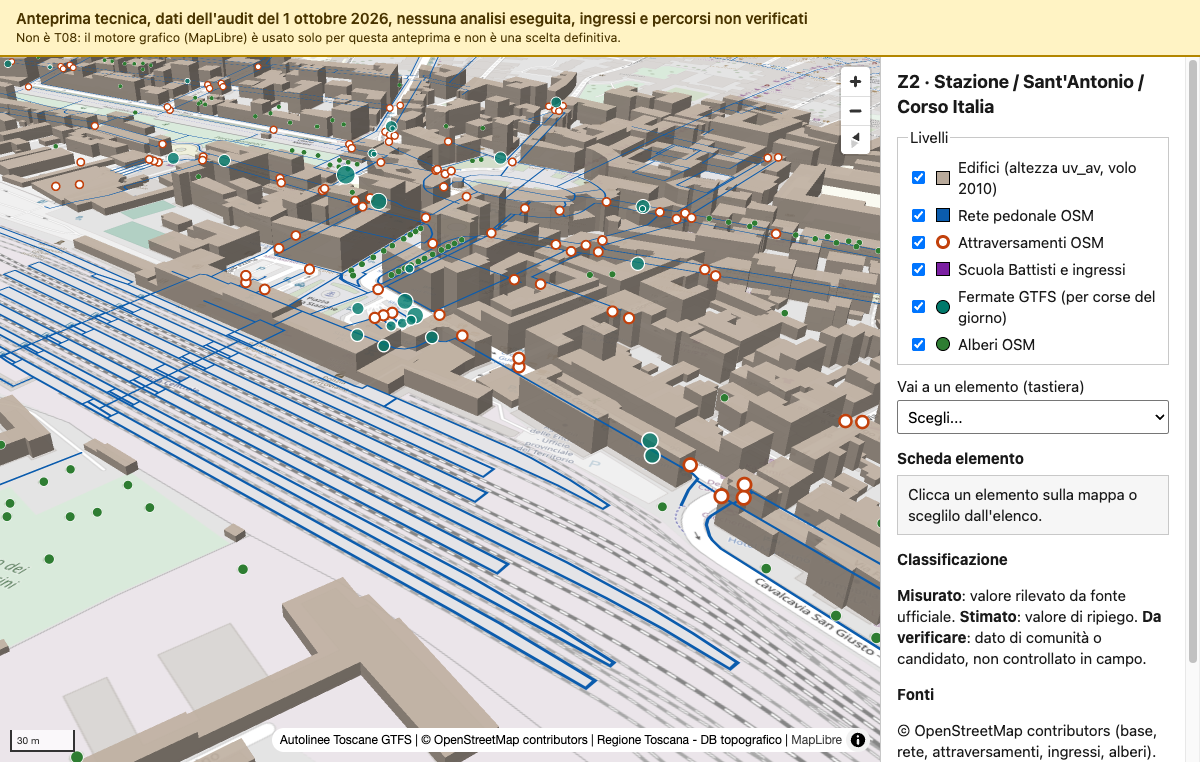
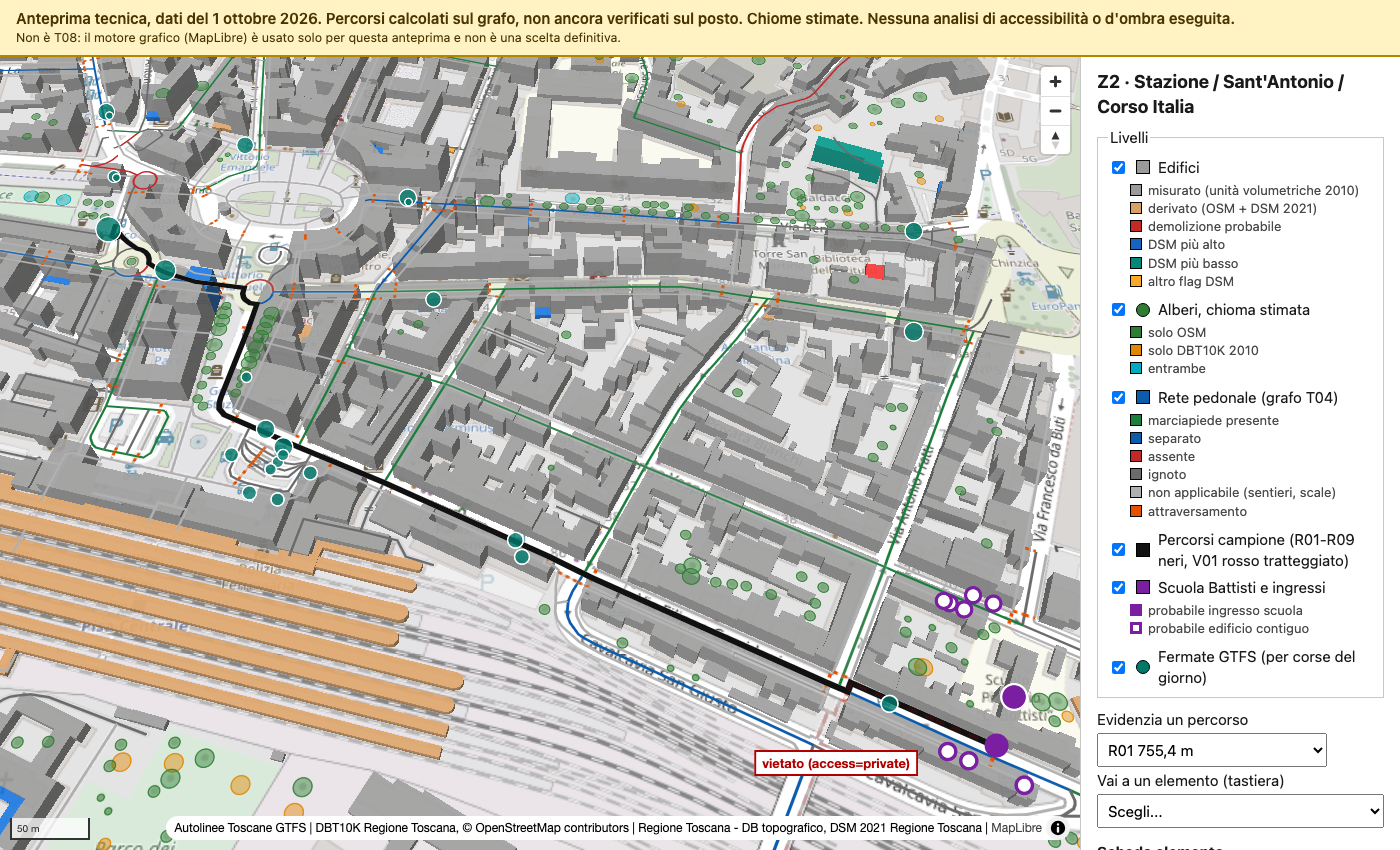
Anteprima Z2 con grafo, percorsi, ingressi, edifici classificati e chiome stimate
Claude-Session: https://claude.ai/code/session_01H4gk6jQonjb7LHRiUng3er

diff --git a/preview/index.html b/preview/index.html
@@ -24,12 +24,13 @@ select,button{font:inherit;padding:6px;max-width:100%}
 #scheda{border:1px solid var(--line);padding:8px 10px;background:#f6f6f6}
 #scheda dl{margin:6px 0 0;display:grid;grid-template-columns:auto 1fr;gap:2px 10px}
 #scheda dt{color:var(--mut)}#scheda dd{margin:0;overflow-wrap:anywhere}
+.lg{list-style:none;margin:0 0 6px 22px;padding:0;font-size:13px;color:var(--mut)}.lg i{display:inline-block;width:12px;height:12px;border:1px solid #000;margin-right:6px;vertical-align:-1px}.etic{background:#fff;color:#b00000;border:2px solid #b00000;padding:1px 6px;font-weight:700;font-size:13px}
 .cls{font-weight:700}
 @media(max-width:760px){main{flex-direction:column}aside{width:auto;max-height:45vh;border-left:0;border-top:1px solid var(--line)}}
 </style>
 </head>
 <body>
-<div id="banner" role="alert">Anteprima tecnica, dati dell'audit del 1 ottobre 2026, nessuna analisi eseguita, ingressi e percorsi non verificati
+<div id="banner" role="alert">Anteprima tecnica, dati del 1 ottobre 2026. Percorsi calcolati sul grafo, non ancora verificati sul posto. Chiome stimate. Nessuna analisi di accessibilità o d'ombra eseguita.
 <small>Non è T08: il motore grafico (MapLibre) è usato solo per questa anteprima e non è una scelta definitiva.</small></div>
 <main>
 <div id="map" aria-label="Mappa 3D della zona Z2, Stazione, Sant'Antonio, Corso Italia"></div>
@@ -37,13 +38,19 @@ select,button{font:inherit;padding:6px;max-width:100%}
 <h1>Z2 · Stazione / Sant'Antonio / Corso Italia</h1>
 <p id="errore" hidden></p>
 <fieldset><legend>Livelli</legend>
-<label><input type="checkbox" data-l="edifici" checked><span class="sw" style="background:#b8a99a"></span>Edifici (altezza uv_av, volo 2010)</label>
-<label><input type="checkbox" data-l="rete" checked><span class="sw" style="background:#0b5cad"></span>Rete pedonale OSM</label>
-<label><input type="checkbox" data-l="attr" checked><span class="sw" style="background:#fff;border-radius:50%;border:3px solid #c2410c"></span>Attraversamenti OSM</label>
+<label><input type="checkbox" data-l="edifici" checked><span class="sw" style="background:#9a9a9a"></span>Edifici</label>
+<ul class="lg"><li><i style="background:#9a9a9a"></i>misurato (unità volumetriche 2010)</li><li><i style="background:#d9a066"></i>derivato (OSM + DSM 2021)</li><li><i style="background:#c62828"></i>demolizione probabile</li><li><i style="background:#1565c0"></i>DSM più alto</li><li><i style="background:#00897b"></i>DSM più basso</li><li><i style="background:#f9a825"></i>altro flag DSM</li></ul>
+<label><input type="checkbox" data-l="alberi" checked><span class="sw" style="background:#2e7d32;border-radius:50%"></span>Alberi, chioma stimata</label>
+<ul class="lg"><li><i style="background:#2e7d32"></i>solo OSM</li><li><i style="background:#e08600"></i>solo DBT10K 2010</li><li><i style="background:#00acc1"></i>entrambe</li></ul>
+<label><input type="checkbox" data-l="rete" checked><span class="sw" style="background:#0b5cad"></span>Rete pedonale (grafo T04)</label>
+<ul class="lg"><li><i style="background:#1b7f3b"></i>marciapiede presente</li><li><i style="background:#0b5cad"></i>separato</li><li><i style="background:#c62828"></i>assente</li><li><i style="background:#6b6b6b"></i>ignoto</li><li><i style="background:#b0b0b0"></i>non applicabile (sentieri, scale)</li><li><i style="background:#e65100"></i>attraversamento</li></ul>
+<label><input type="checkbox" data-l="percorsi" checked><span class="sw" style="background:#111"></span>Percorsi campione (R01-R09 neri, V01 rosso tratteggiato)</label>
 <label><input type="checkbox" data-l="scuola" checked><span class="sw" style="background:#7b1fa2"></span>Scuola Battisti e ingressi</label>
+<ul class="lg"><li><i style="background:#7b1fa2;border:3px solid #7b1fa2"></i>probabile ingresso scuola</li><li><i style="background:#fff;border:3px solid #7b1fa2"></i>probabile edificio contiguo</li></ul>
 <label><input type="checkbox" data-l="fermate" checked><span class="sw" style="background:#00796b;border-radius:50%"></span>Fermate GTFS (per corse del giorno)</label>
-<label><input type="checkbox" data-l="alberi" checked><span class="sw" style="background:#2e7d32;border-radius:50%"></span>Alberi OSM</label>
 </fieldset>
+<label for="perc">Evidenzia un percorso</label>
+<select id="perc"><option value="">Tutti</option></select>
 <label for="vai">Vai a un elemento (tastiera)</label>
 <select id="vai"><option value="">Scegli...</option></select>
 <h2>Scheda elemento</h2>
@@ -51,7 +58,7 @@ select,button{font:inherit;padding:6px;max-width:100%}
 <h2>Classificazione</h2>
 <p><b>Misurato</b>: valore rilevato da fonte ufficiale. <b>Stimato</b>: valore di ripiego. <b>Da verificare</b>: dato di comunità o candidato, non controllato in campo.</p>
 <h2>Fonti</h2>
-<p>© OpenStreetMap contributors (base, rete, attraversamenti, ingressi, alberi). Regione Toscana - DB topografico (edifici, unità volumetriche, volo 2010). Autolinee Toscane GTFS (fermate, corse del 1 ottobre 2026).</p>
+<p>© OpenStreetMap contributors (base, rete, ingressi, alberi). Regione Toscana - DB topografico (edifici, unità volumetriche, volo 2010), DBT10K Regione Toscana (alberi), DSM 2021 Regione Toscana (altezze derivate e confronto). Quota base: dal dato (z_base) quando presente, altrimenti 0; la base cartografica è piatta, quindi gli edifici possono apparire sollevati di alcuni metri. Autolinee Toscane GTFS (fermate, corse del 1 ottobre 2026).</p>
 </aside>
 </main>
 <script src="https://cdn.jsdelivr.net/npm/maplibre-gl@4.7.1/dist/maplibre-gl.js"></script>
@@ -59,46 +66,69 @@ select,button{font:inherit;padding:6px;max-width:100%}
 const OSM='© OpenStreetMap contributors', RT='Regione Toscana - DB topografico', AT='Autolinee Toscane GTFS';
 const D=n=>'data/'+n+'.geojson';
 const src=(n,a)=>({type:'geojson',data:D(n),attribution:a});
-const map=new maplibregl.Map({container:'map',center:[10.4035,43.7082],zoom:17,pitch:58,pitch:58,bearing:-25,maxPitch:75,
+const mpp10=78271.517*Math.cos(43.708*Math.PI/180)/1024; // m/pixel a zoom 10
+const chioma=['interpolate',['exponential',2],['zoom'],10,['/',['get','chioma_d'],2*mpp10],22,['*',4096,['/',['get','chioma_d'],2*mpp10]]];
+const FL=['get','flag'];
+const colEdif=['case',['==',FL,'demolizione_probabile'],'#c62828',['==',FL,'dsm_piu_alto'],'#1565c0',['==',FL,'dsm_piu_basso'],'#00897b',
+ ['all',['!=',FL,''],['!=',FL,'non_confrontato']],'#f9a825',['==',['get','classe_h'],'derived'],'#d9a066','#9a9a9a'];
+const colAlb=['match',['get','fonti'],'osm','#2e7d32','dbt10k_2010','#e08600','#00acc1'];
+const map=new maplibregl.Map({container:'map',center:[10.3985,43.7085],zoom:17,pitch:58,bearing:-25,maxPitch:75,
  style:{version:8,sources:{osm:{type:'raster',tiles:['https://tile.openstreetmap.org/{z}/{x}/{y}.png'],tileSize:256,maxzoom:19,attribution:OSM},
-  edifici:src('edifici',RT),rete:src('rete_pedonale',OSM),attr:src('attraversamenti',OSM),scuola:src('scuola',OSM),ingressi:src('ingressi',OSM),
-  fermate:src('fermate',AT),alberi:src('alberi',OSM)},
+  edifici:src('edifici',RT+', DSM 2021 Regione Toscana'),rete:src('rete',OSM),percorsi:src('percorsi',OSM),scuola:src('scuola',OSM),ingressi:src('ingressi',OSM),
+  fermate:src('fermate',AT),alberi:src('alberi','DBT10K Regione Toscana, '+OSM)},
  layers:[{id:'osm',type:'raster',source:'osm',paint:{'raster-saturation':-0.6,'raster-opacity':0.85}},
-  {id:'edifici',type:'fill-extrusion',source:'edifici',paint:{'fill-extrusion-height':['get','h'],'fill-extrusion-base':0,'fill-extrusion-color':'#b8a99a','fill-extrusion-opacity':0.92}},
-  {id:'rete',type:'line',source:'rete',paint:{'line-color':'#0b5cad','line-width':['interpolate',['linear'],['zoom'],14,1,19,4]}},
-  {id:'alberi',type:'circle',source:'alberi',paint:{'circle-color':'#2e7d32','circle-radius':['interpolate',['linear'],['zoom'],14,1.5,19,6],'circle-stroke-color':'#fff','circle-stroke-width':0.5}},
-  {id:'attr',type:'circle',source:'attr',paint:{'circle-color':'#fff','circle-stroke-color':'#c2410c','circle-stroke-width':2.5,'circle-radius':['interpolate',['linear'],['zoom'],14,2,19,7]}},
+  {id:'edifici',type:'fill-extrusion',source:'edifici',paint:{'fill-extrusion-height':['+',['get','z_base'],['get','h']],'fill-extrusion-base':['coalesce',['get','z_base'],0],'fill-extrusion-color':colEdif,'fill-extrusion-opacity':0.92}},
+  {id:'rete',type:'line',source:'rete',filter:['!=',['get','tipo'],'attraversamento'],paint:{'line-color':['match',['get','marciapiede'],'presente','#1b7f3b','separato','#0b5cad','assente','#c62828','ignoto','#6b6b6b','#b0b0b0'],'line-width':['interpolate',['linear'],['zoom'],14,1,19,4]}},
+  {id:'attr',type:'line',source:'rete',filter:['==',['get','tipo'],'attraversamento'],paint:{'line-color':'#e65100','line-dasharray':[1,1],'line-width':['interpolate',['linear'],['zoom'],14,1.5,19,5]}},
+  {id:'alberi',type:'circle',source:'alberi',paint:{'circle-color':colAlb,'circle-opacity':0.45,'circle-radius':chioma,'circle-pitch-alignment':'map','circle-pitch-scale':'map','circle-stroke-color':colAlb,'circle-stroke-width':1.2,'circle-stroke-opacity':0.9}},
+  {id:'perc_ombra',type:'line',source:'percorsi',paint:{'line-color':'#fff','line-width':['interpolate',['linear'],['zoom'],14,3,19,9],'line-opacity':0.9}},
+  {id:'perc_ok',type:'line',source:'percorsi',filter:['!=',['get','stato'],'forbidden'],paint:{'line-color':'#111','line-width':['interpolate',['linear'],['zoom'],14,1.5,19,5]}},
+  {id:'perc_v',type:'line',source:'percorsi',filter:['==',['get','stato'],'forbidden'],paint:{'line-color':'#d50000','line-dasharray':[2,1.5],'line-width':['interpolate',['linear'],['zoom'],14,2,19,5]}},
   {id:'fermate',type:'circle',source:'fermate',paint:{'circle-color':'#00796b','circle-opacity':0.8,'circle-stroke-color':'#fff','circle-stroke-width':1.5,
     'circle-radius':['interpolate',['linear'],['get','corse'],0,4,250,8,500,13,1000,18]}},
   {id:'scuola',type:'circle',source:'scuola',paint:{'circle-color':'#7b1fa2','circle-radius':11,'circle-stroke-color':'#fff','circle-stroke-width':2}},
-  {id:'ingressi',type:'circle',source:'ingressi',paint:{'circle-color':'#fff','circle-stroke-color':'#7b1fa2','circle-stroke-width':3,'circle-radius':6}}]}});
+  {id:'ingressi',type:'circle',source:'ingressi',paint:{'circle-color':['match',['get','classe'],'probabile_ingresso_scuola','#7b1fa2','#fff'],'circle-stroke-color':'#7b1fa2','circle-stroke-width':3,'circle-radius':['match',['get','classe'],'probabile_ingresso_scuola',8,6]}}]}});
 map.addControl(new maplibregl.NavigationControl());
 map.addControl(new maplibregl.ScaleControl());
 map.on('error',e=>{const p=document.getElementById('errore');p.hidden=false;p.textContent='Errore di caricamento: '+(e.error&&e.error.message||e)});
-const GR={edifici:['edifici'],rete:['rete'],attr:['attr'],scuola:['scuola','ingressi'],fermate:['fermate'],alberi:['alberi']};
+const GR={edifici:['edifici'],rete:['rete','attr'],percorsi:['perc_ombra','perc_ok','perc_v'],scuola:['scuola','ingressi'],fermate:['fermate'],alberi:['alberi']};
+const PL=['perc_ombra','perc_ok','perc_v'];
 document.querySelectorAll('[data-l]').forEach(c=>c.addEventListener('change',()=>GR[c.dataset.l].forEach(l=>map.setLayoutProperty(l,'visibility',c.checked?'visible':'none'))));
 // scheda
-const T={edifici:p=>({titolo:'Unità volumetrica',cls:p.h_nota==='misurato'?'misurato':'stimato',fonte:RT+', unità volumetriche',data:'volo '+p.volo.replace(/(\d{4})(\d\d)(\d\d)/,'$3/$2/$1'),r:[['Identificativo',p.id],['Altezza',p.h+' m (uv_av)'],['Uso',p.uso]]}),
- rete:p=>({titolo:'Percorso pedonale',cls:'da verificare',fonte:OSM,data:'1 ottobre 2026 (estrazione)',r:[['Tipo',p.tipo],['Nome',p.nome||'-'],['Superficie',p.superficie||'-'],['Identificativo',p.id]]}),
- attr:p=>({titolo:'Attraversamento pedonale',cls:'da verificare',fonte:OSM,data:'1 ottobre 2026 (estrazione)',r:[['Tipo',p.tipo||'-'],['Segnaletica',p.segnaletica||'-'],['Identificativo',p.id]]}),
+const FLAG={demolizione_probabile:'demolizione probabile (DSM molto più basso delle unità volumetriche)',dsm_piu_alto:'DSM più alto (possibile sopraelevazione)',dsm_piu_basso:'DSM più basso',non_confrontato:'non confrontato (sotto 40 m²)',scarto_con_vegetazione:'scarto con vegetazione',sotto_2_5m:'altezza sotto 2,5 m',dsm_non_attendibile:'DSM non attendibile',vegetazione_possibile:'vegetazione possibile'};
+const m1=v=>(+v).toFixed(1).replace('.',',')+' m';
+const T={edifici:p=>({titolo:{volume_uv:'Unità volumetrica',volume_derivato:'Volume derivato',copertura_osm:'Copertura OSM'}[p.tipo]||'Edificio',cls:p.classe_h==='measured'?'misurato':'derivato',fonte:p.fonte==='uv_rt_2010'?RT+', unità volumetriche 2010':'OSM + DSM 2021 Regione Toscana, meno DTM',data:String(p.anno),r:[['Identificativo',p.id],['Altezza',m1(p.h)],['Intervallo',m1(p.h_min)+' - '+m1(p.h_max)],['Quota base',m1(p.z_base)+' (dal dato)'],['Classe',p.classe_h],['Flag DSM',FLAG[p.flag]||'nessuno'],['Portico / volume sospeso','ignoto']]}),
+ rete:p=>({titolo:'Tratto del grafo T04',cls:'da verificare',fonte:OSM+', grafo T04',data:'1 ottobre 2026',r:[['Tipo',p.tipo],['Classe OSM',p.highway],['Nome',p.nome||'-'],['Marciapiede',p.marciapiede.replace('_',' ')],['Lunghezza',m1(p.m)],['Identificativo',p.id]]}),
+ percorsi:p=>p.stato==='forbidden'?{titolo:'V01 vietato (access=private)',cls:'da verificare',fonte:'Grafo T04',data:'1 ottobre 2026',r:[['Percorso',p.descrizione],['Esito','nessun percorso sul grafo verificato'],['Lunghezza sul grafo di controllo',m1(p.permissivo_lunghezza_m)+' (tratteggio rosso, non percorribile)'],['Restrizioni',(p.restrizioni||[]).join(', ')]]}:{titolo:p.id+' percorso campione',cls:'da verificare',fonte:'Grafo T04 (calcolato, non verificato sul posto)',data:'1 ottobre 2026',r:[['Percorso',p.descrizione],['Lunghezza',m1(p.lunghezza_totale_m)],['Attraversamenti',p.attraversamenti],['Marciapiede ignoto',m1(p.m_marciapiede_ignoto)],['Scale / sottopassi',p.scale+' / '+p.sottopassi]]},
  scuola:p=>({titolo:'Scuola primaria C. Battisti',cls:'da verificare',fonte:OSM+' (candidato)',data:'1 ottobre 2026 (estrazione)',r:[['Indirizzo',p.indirizzo],['Identificativo',p.id]]}),
- ingressi:p=>({titolo:'Ingresso della scuola',cls:'da verificare',fonte:OSM,data:'1 ottobre 2026 (estrazione)',r:[['Tipo',p.tipo],['Indirizzo',p.indirizzo||'-'],['Identificativo',p.id]]}),
+ ingressi:p=>({titolo:p.classe==='probabile_ingresso_scuola'?'Probabile ingresso scuola':'Probabile edificio contiguo',cls:'da verificare',fonte:OSM+', classificazione T04 dalla geometria',data:'1 ottobre 2026',r:[['Distanza di raccordo',m1(p.raccordo_m)],['Identificativo',p.id]]}),
  fermate:p=>({titolo:'Fermata '+p.nome,cls:'misurato',fonte:AT,data:'corse del 1 ottobre 2026',r:[['Codice',p.id],['Corse del giorno',p.corse],['Linee',p.linee]]}),
- alberi:p=>({titolo:'Albero',cls:'da verificare',fonte:OSM,data:p.data?'ultima modifica '+p.data:'1 ottobre 2026',r:[['Identificativo',p.id],['Specie e altezza','non disponibili']]})};
+ alberi:p=>({titolo:'Albero (chioma stimata)',cls:'stimato',fonte:{osm:'OSM','dbt10k_2010':'DBT10K Regione Toscana 2010','dbt10k_2010,osm':'DBT10K 2010 + OSM'}[p.fonti],data:'posizione: misurata; dimensioni: stimate',r:[['Diametro chioma stimato',m1(p.chioma_d_min)+' / '+m1(p.chioma_d)+' / '+m1(p.chioma_d_max)+' (min / tipico / max)'],['Altezza stimata',m1(p.h_min)+' / '+m1(p.h)+' / '+m1(p.h_max)],['Classe altezza',p.h_cls],['Identificativo',p.id]]})};
 const sch=document.getElementById('scheda');
 function show(layer,p){const t=T[layer](p),dl=document.createElement('dl');
  sch.replaceChildren();const h=document.createElement('strong');h.textContent=t.titolo;sch.append(h);
  [['Classificazione',t.cls],['Fonte',t.fonte],['Data',t.data],...t.r].forEach(([k,v])=>{const a=document.createElement('dt'),b=document.createElement('dd');a.textContent=k;b.textContent=v;if(k==='Classificazione')b.className='cls';dl.append(a,b)});
  sch.append(dl)}
-const ORDER=['ingressi','scuola','fermate','attr','alberi','rete','edifici'];
-map.on('click',e=>{const f=map.queryRenderedFeatures(e.point,{layers:ORDER.filter(l=>map.getLayoutProperty(l,'visibility')!=='none')})[0];if(f)show(f.layer.id,f.properties)});
+const ORDER=['ingressi','scuola','fermate','perc_v','perc_ok','attr','alberi','rete','edifici'];
+const LID={perc_v:'percorsi',perc_ok:'percorsi',attr:'rete'};
+map.on('click',e=>{const f=map.queryRenderedFeatures(e.point,{layers:ORDER.filter(l=>map.getLayoutProperty(l,'visibility')!=='none')})[0];if(f)show(LID[f.layer.id]||f.layer.id,f.properties)});
 ORDER.forEach(l=>{map.on('mouseenter',l,()=>map.getCanvas().style.cursor='pointer');map.on('mouseleave',l,()=>map.getCanvas().style.cursor='')});
 // elenco per tastiera
 const vai=document.getElementById('vai'),idx=[];
 Promise.all(['scuola','ingressi','fermate'].map(n=>fetch(D(n)).then(r=>r.json()).then(g=>g.features.forEach(f=>idx.push([n,f]))))).then(()=>{
  idx.sort((a,b)=>ORDER.indexOf(a[0])-ORDER.indexOf(b[0]));
- idx.forEach(([n,f],i)=>{const o=document.createElement('option');o.value=i;const p=f.properties;o.textContent=(n==='fermate'?'Fermata ':n==='ingressi'?'Ingresso ':'')+(p.nome||p.indirizzo||p.tipo)+(n==='ingressi'?' ('+p.tipo+')':'');vai.append(o)})});
+ idx.forEach(([n,f],i)=>{const o=document.createElement('option');o.value=i;const p=f.properties;o.textContent=(n==='fermate'?'Fermata ':n==='ingressi'?'Ingresso ':'')+(n==='ingressi'?(p.classe==='probabile_ingresso_scuola'?'probabile ingresso scuola':'probabile edificio contiguo'):(p.nome||p.indirizzo));vai.append(o)})});
 vai.addEventListener('change',()=>{if(vai.value==='')return;const [n,f]=idx[vai.value];map.flyTo({center:f.geometry.coordinates,zoom:18,duration:800});show(n,f.properties)});
+// percorsi: selettore e etichetta V01
+const perc=document.getElementById('perc');let PF=[];
+fetch(D('percorsi')).then(r=>r.json()).then(g=>{PF=g.features;PF.forEach(f=>{const o=document.createElement('option');o.value=f.properties.id;o.textContent=f.properties.id+(f.properties.stato==='forbidden'?' vietato (access=private)':' '+m1(f.properties.lunghezza_totale_m));perc.append(o)});
+ const v=PF.find(f=>f.properties.stato==='forbidden'),c=v.geometry.coordinates,mid=c[Math.floor(c.length/2)];
+ const el=document.createElement('div');el.className='etic';el.textContent='vietato (access=private)';new maplibregl.Marker({element:el}).setLngLat(mid).addTo(map)});
+perc.addEventListener('change',()=>{const id=perc.value;
+ PL.forEach(l=>map.setPaintProperty(l,'line-opacity',id?['case',['==',['get','id'],id],1,0.15]:1));
+ map.setPaintProperty('perc_ok','line-width',id?['case',['==',['get','id'],id],6,1.5]:['interpolate',['linear'],['zoom'],14,1.5,19,5]);
+ if(!id)return;const f=PF.find(x=>x.properties.id===id),b=new maplibregl.LngLatBounds();f.geometry.coordinates.forEach(c=>b.extend(c));
+ map.fitBounds(b,{padding:{top:60,bottom:60,left:60,right:140},duration:800,pitch:30,bearing:0,maxZoom:18});show('percorsi',f.properties)});
 </script>
 </body>
 </html>

diff --git a/preview/build.py b/preview/build.py
@@ -1,5 +1,5 @@
 #!/usr/bin/env python3
-"""Converte i campioni dell'audit (solo Z2) in GeoJSON EPSG:4326 per index.html."""
+"""Edifici, alberi, rete, percorsi e ingressi da T04/T05; scuola, fermate e attraversamenti dall'audit. Esegue con pipeline/.venv/bin/python. Converte i campioni dell'audit (solo Z2) in GeoJSON EPSG:4326 per index.html."""
 import csv, json, os
 A = os.path.join(os.path.dirname(__file__), "..", "docs", "audit")
 OUT = os.path.join(os.path.dirname(__file__), "data")
@@ -15,47 +15,38 @@ def dump(name, feats):
 F = lambda g, p: {"type": "Feature", "geometry": g, "properties": p}
 P = lambda lat, lon: {"type": "Point", "coordinates": [r(lon), r(lat)]}
 
-# edifici: unita volumetriche, altezza uv_av (volo 2010)
-b = []
-for u in json.load(open(f"{A}/edifici/campioni/rt_uv_Z2.json")):
-    try: h = float(u["uv_av"])
-    except ValueError: h = None
-    for poly in u["polys"]:
-        c = poly[0]
-        if not any(inb(y, x) for x, y in c): continue
-        b.append(F({"type": "Polygon", "coordinates": [[[r(x), r(y)] for x, y in ring] for ring in poly]},
-                   {"id": u["uv_id"], "h": h if h is not None else 6.0, "h_nota": "misurato" if h is not None else "stimato",
-                    "uso": u["edifc_duso"], "anno": u["anno"], "volo": u["dtvolo"]}))
-dump("edifici", b)
+# T05: edifici e alberi gia in 4326 (arrotondati), T04: percorsi e ingressi
+G = os.path.join(os.path.dirname(__file__), "..")
+def rnd(c): return [rnd(x) for x in c] if isinstance(c[0], list) else [r(c[0]), r(c[1])]
+def copia(src, name, keep=None, flt=lambda f: True):
+    fs = []
+    for f in json.load(open(f"{G}/{src}"))["features"]:
+        if not flt(f): continue
+        p = {k: v for k, v in f["properties"].items() if k != "cls" and (keep is None or k in keep)}
+        fs.append(F({"type": f["geometry"]["type"], "coordinates": rnd(f["geometry"]["coordinates"])}, p))
+    dump(name, fs)
+copia("geometry/edifici_z2.geojson", "edifici")
+copia("geometry/alberi_z2.geojson", "alberi")
+copia("network/percorsi_campione.geojson", "percorsi")
+copia("network/destinazioni_ingressi.geojson", "ingressi", flt=lambda f: f["geometry"]["type"] == "Point" and f["properties"]["classe"] != "ingresso_fermata")
 
-# rete OSM
-osm = json.load(open(f"{A}/rete/campioni/osm_Z2.json"))["elements"]
-PED = {"footway", "pedestrian", "steps", "path", "platform"}
-rete, attr = [], []
-for e in osm:
-    t = e.get("tags", {})
-    if e["type"] == "way" and t.get("highway") in PED:
-        rete.append(F({"type": "LineString", "coordinates": [[r(g["lon"]), r(g["lat"])] for g in e["geometry"]]},
-                      {"id": f"way/{e['id']}", "tipo": t["highway"], "nome": t.get("name", ""), "superficie": t.get("surface", "")}))
-    elif e["type"] == "node" and t.get("highway") == "crossing" and inb(e["lat"], e["lon"]):
-        attr.append(F(P(e["lat"], e["lon"]), {"id": f"node/{e['id']}", "tipo": t.get("crossing", ""), "segnaletica": t.get("crossing:markings", ""),
-                                               "semaforo": t.get("crossing") == "traffic_signals"}))
-dump("rete_pedonale", rete); dump("attraversamenti", attr)
+# grafo T04, solo archi che toccano Z2, EPSG:4326
+import geopandas as gpd
+from shapely.geometry import box
+a = gpd.read_file(f"{G}/data/norm/network/rete_z2.gpkg", layer="archi").to_crs(4326)
+a = a[a.intersects(box(W, S, E, N))]
+dump("rete", [F({"type": "LineString", "coordinates": [[r(x), r(y)] for x, y in g.coords]},
+                {"id": x.edge_id, "tipo": x.tipo_arco, "highway": x.highway, "nome": x["name"] if isinstance(x["name"], str) else "",
+                 "marciapiede": x.marciapiede_stato, "m": round(x.length_m, 1)})
+              for _, x in a.iterrows() for g in [x.geometry] if g.geom_type == "LineString"])
 
 # scuola e ingressi
 c = json.load(open(f"{A}/destinazioni/campioni/candidati_caso_A.json"))["Z2"]
 dump("scuola", [F(P(*c["centro_osm"]), {"id": c["osm"], "nome": c["nome_osm"], "indirizzo": "via Filippo Corridoni 42"})])
-dump("ingressi", [F(P(i["lat"], i["lon"]), {"id": f"node/{i['id']}", "tipo": i["tag"]["entrance"],
-                    "indirizzo": " ".join(filter(None, [i["tag"].get("addr:street"), i["tag"].get("addr:housenumber")]))})
-                  for i in c["ingressi_osm_nel_bbox"]])
 
 # fermate GTFS Z2
 fer = [F(P(float(x["lat"]), float(x["lon"])), {"id": x["stop_code"], "nome": x["nome"], "corse": int(x["corse_oggi"]), "linee": x["linee_oggi"]})
        for x in csv.DictReader(open(f"{A}/destinazioni/campioni/gtfs_fermate_zone.csv", encoding="utf-8")) if x["zona"] == "Z2"]
 dump("fermate", fer)
 
-# alberi OSM
-dump("alberi", [F(P(e["lat"], e["lon"]), {"id": f"node/{e['id']}", "data": e.get("timestamp", "")[:10]})
-                for e in json.load(open(f"{A}/verde/campioni/osm_Z2.json"))["elements"]
-                if e["type"] == "node" and e.get("tags", {}).get("natural") == "tree" and inb(e["lat"], e["lon"])])
 json.dump([r(S), r(W), r(N), r(E)], open(f"{OUT}/bbox.json", "w"))
